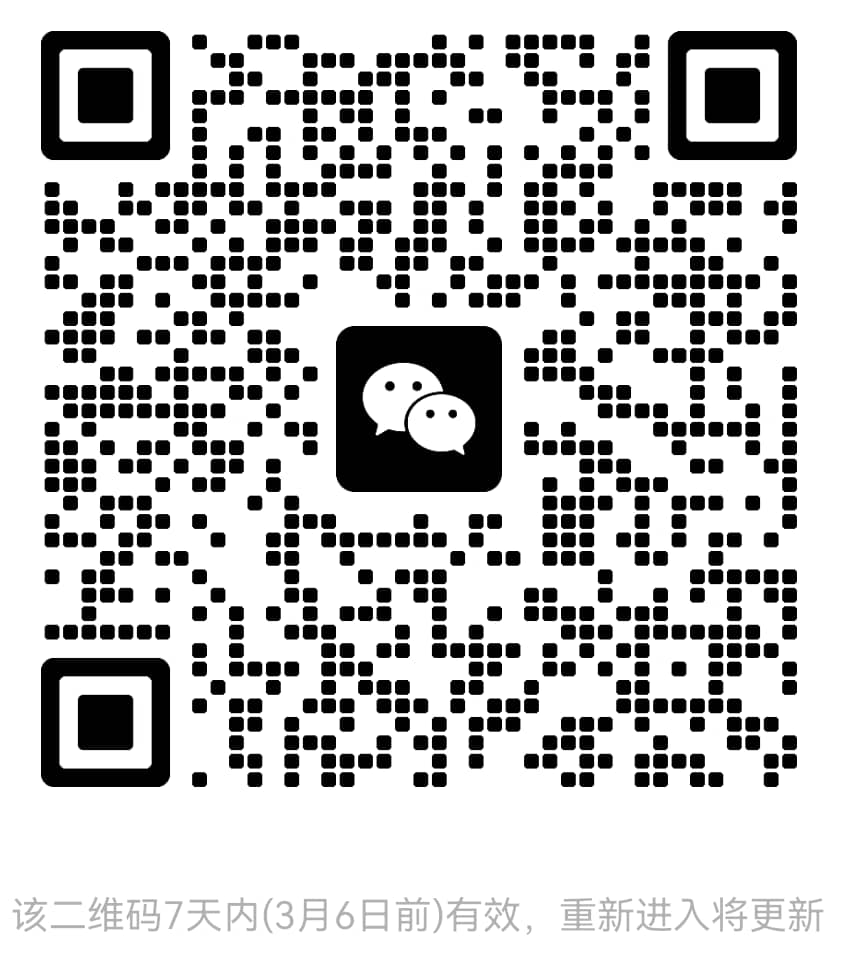
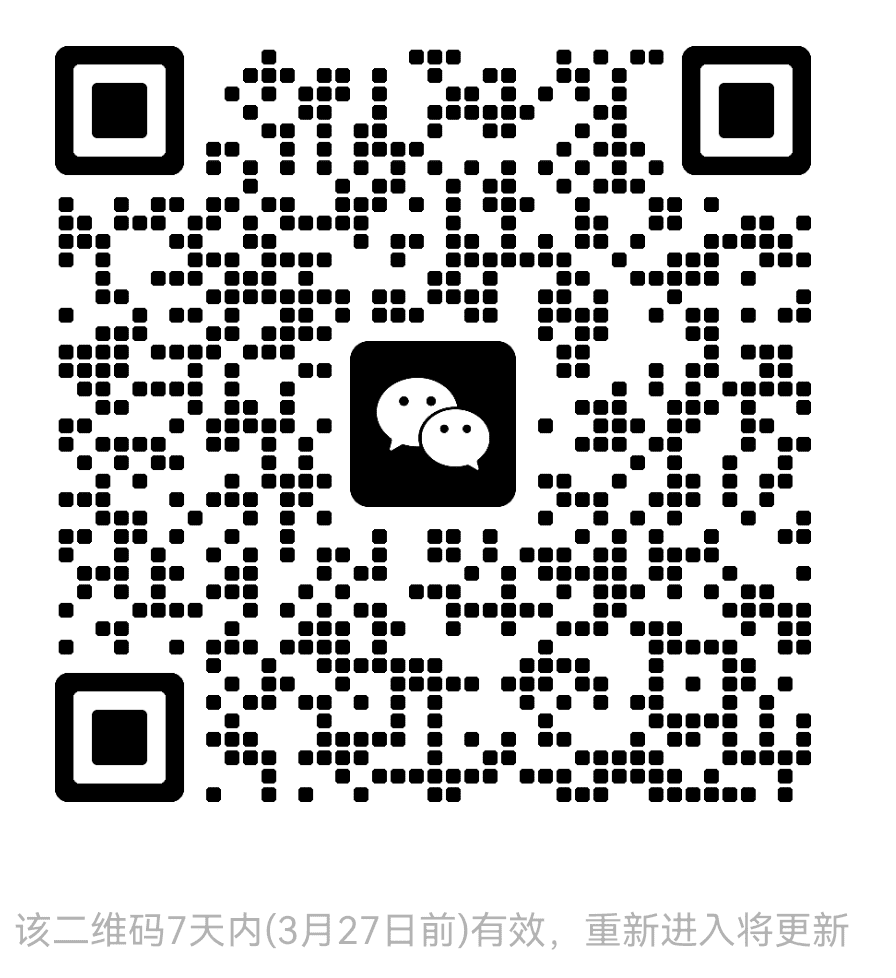
Update weixin

diff --git a/README-zh.md b/README-zh.md
@@ -8,7 +8,7 @@
 [![Percentage of issues still open](http://isitmaintained.com/badge/open/jd-opensource/joylive-agent.svg)](http://isitmaintained.com/project/jd-opensource/joylive-agent "Percentage of issues still open")
 [![Slack Status](https://img.shields.io/badge/slack-join_chat-white.svg?logo=slack&style=social)](https://joylivehq.slack.com)
 
-<img src="docs/image/weixin.png" title="该二维码有效期截止到2025/03/06" width="150"  />
+<img src="docs/image/weixin.png" title="该二维码有效期截止到2025/03/27" width="150"  />
 
 [English](./README.md) | 简体中文
 

diff --git a/README.md b/README.md
@@ -8,7 +8,7 @@
 [![Percentage of issues still open](http://isitmaintained.com/badge/open/jd-opensource/joylive-agent.svg)](http://isitmaintained.com/project/jd-opensource/joylive-agent "Percentage of issues still open")
 [![Slack Status](https://img.shields.io/badge/slack-join_chat-white.svg?logo=slack&style=social)](https://joylivehq.slack.com)
 
-<img src="docs/image/weixin.png" title="The QR code is valid until 2025/03/06" width="150" />
+<img src="docs/image/weixin.png" title="The QR code is valid until 2025/03/27" width="150" />
 
 English | [简体中文](./README-zh.md)
 
